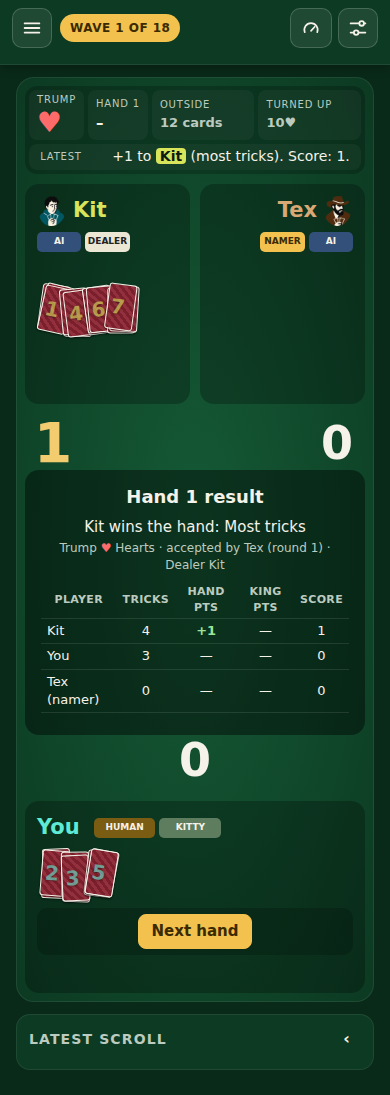
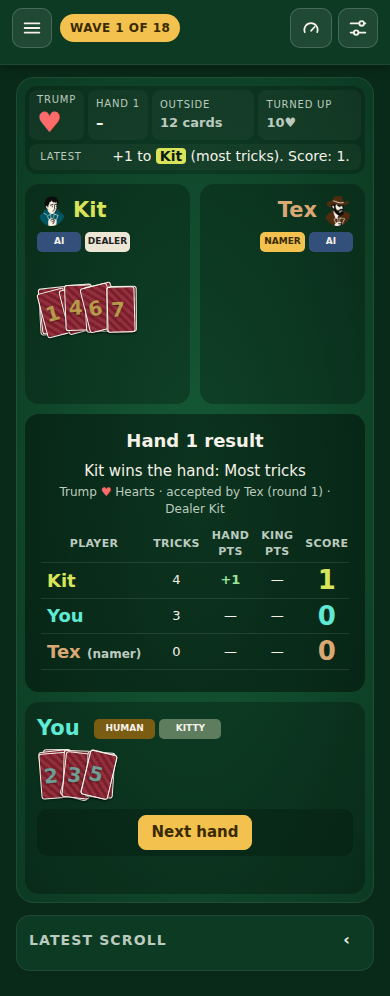
Drop play-area scores while a summary chart shows them
The hand and Showdown summary charts already carry the scores, so the
play-area scores hide while a chart shows. In the chart, names and
scores are larger and in each player's name color; the role note is
small and muted.

Claude-Session: https://claude.ai/code/session_01QkpazkapUFZWg4SWZB1dDA

diff --git a/mockups/advanced.js b/mockups/advanced.js
@@ -89,7 +89,11 @@ const css = `
 .center{position:relative}
 .center > .pscore,.trick > .pscore{position:absolute;top:6px;z-index:8;font-size:46px;font-weight:800;line-height:1;font-variant-numeric:tabular-nums;pointer-events:none}
 .center > .pscore.w,.trick > .pscore.w{left:12px}.center > .pscore.e,.trick > .pscore.e{right:12px}
-.center:not(:has(.trick)):has(.pscore){padding:56px 0}
+/* A summary chart already shows the scores: no play-area scores then. Its names and scores are larger, in name colors. */
+.center:has(.summary) > .pscore,.center:has(.summary) .trick .pscore{display:none}
+.summary table.stats td:first-child{white-space:nowrap;font-size:18px;font-weight:800;text-align:left}
+.summary table.stats td:first-child small{font-size:12px;font-weight:600;color:var(--muted)}
+.summary table.stats td:last-child{font-size:26px;font-weight:800;line-height:1.1}
 .trick .slot-0{margin-top:calc(var(--cw)*1.5*1.4*.1)}
 .trick .slot-0 .pscore{color:var(--ink);font-size:46px;font-weight:800;line-height:1;margin-top:8px;font-variant-numeric:tabular-nums}
 .center > .pscore.pme{left:50%;bottom:8px;top:auto;transform:translateX(-50%)}
@@ -202,3 +206,12 @@ if (collapsed) $('.layout').classList.add('log-collapsed');
     if (id === 'seat0' && slot0) slot0.appendChild(sc); else if (id !== 'seat0' && trick) trick.appendChild(sc); else center.appendChild(sc);
     if (row && !row.children.length) row.remove();
   } }
+
+// Summary chart: color each name and score in the player's name color; the role note goes small.
+for (const tr of $$('.summary table.stats tbody tr, .summary table.stats tr')) {
+  const c = tr.cells; if (!c || !c.length || tr.querySelector('th')) continue;
+  const m = c[0].textContent.match(/^(You|Kit|Tex)(.*)$/); if (!m) continue;
+  const id = NAME[m[1]], col = 'var(--name' + id + ')';
+  c[0].innerHTML = '<span style="color:' + col + '">' + m[1] + '</span>' + (m[2].trim() ? ' <small>' + m[2].trim() + '</small>' : '');
+  c[c.length - 1].style.color = col;
+}
